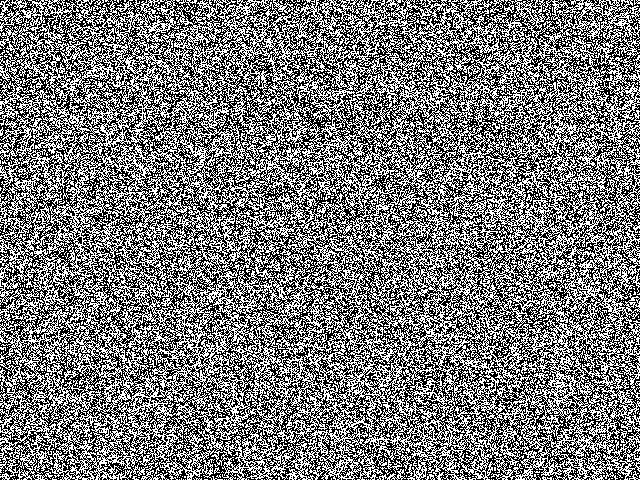
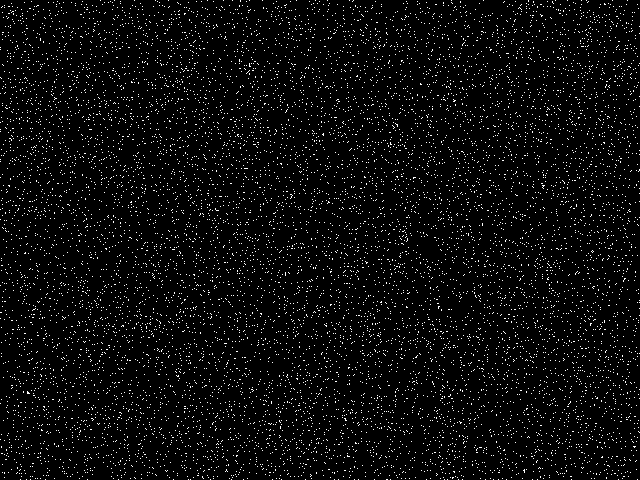
Part b decoder still failing but noise generator is working.

diff --git a/src/part_c/noise_generator.cpp b/src/part_c/noise_generator.cpp
@@ -1,0 +1,123 @@
+//
+// Created by Hasan on 18/05/20.
+//
+
+#ifndef IP_ASSIGNMENT_PARTC_NOISE_GENERATOR_CPP
+#define IP_ASSIGNMENT_PARTC_NOISE_GENERATOR_CPP
+
+#include <iostream>
+#include <opencv2/opencv.hpp>
+#include <algorithm>
+#include <random>
+
+auto hash(const char* password) -> unsigned long;
+auto combine_noise_and_carrier(cv::Mat carrier, const char* password) -> cv::Mat;
+
+auto c_main(int argc, char *argv[]) -> int {
+
+    // Process command line inputs and handle errors
+    if (argc < 4) {
+        std::cerr <<
+                  "Not enough arguments into the program.\nThe usage is program.exe <carrier_dir> <message_dir> <encoded_des>"
+                  << std::endl;
+
+        return -1;
+    }
+
+    auto carrier_name = argv[2];
+    auto output_name = argv[3];
+
+    auto image_write_result = false;
+
+    std::cout << "Processing encoder..." << std::endl;
+
+    cv::Mat_<uchar> carrier = cv::imread(carrier_name, cv::IMREAD_GRAYSCALE);
+//    cv::Mat_<uchar> message = cv::imread(message_name, cv::IMREAD_GRAYSCALE);
+
+    if (carrier.empty()) {
+        std::cerr <<
+                  "ERROR: Either carrier image nor message image does not exist."
+                  << std::endl;
+        return -1;
+    }
+
+    std::cout << "SUCCESS: Images loaded successfully" << std::endl;
+
+    // Check if the images are the same size
+
+//    if (carrier.size() != message.size()) {
+//        std::cerr <<
+//                  "ERROR: The carrier and the message are not the same size."
+//                  << std::endl;
+//        return -1;
+//    }
+
+    std::cout << "SUCCESS: Images compatible." << std::endl;
+
+    // Setup complete
+
+    auto output = combine_noise_and_carrier(carrier, "password");
+
+
+    try {
+        image_write_result = cv::imwrite(output_name, output);
+    } catch (const cv::Exception &cv_ex) {
+        std::cerr << "ERROR: Encoded image write failed.\n" << cv_ex.what() << std::endl;
+    }
+
+    if (image_write_result) {
+        std::cout << "SUCCESS: Encoded image written successfully." << std::endl;
+    } else {
+        std::cerr << "ERROR: Encoded image write failed." << std::endl;
+    }
+
+    return image_write_result ? 0 : 1;
+}
+
+/**
+ * TODO check for overflow
+ * @param carrier
+ * @param password
+ * @return
+ */
+auto combine_noise_and_carrier(cv::Mat carrier, const char* password) -> cv::Mat {
+
+    auto output = carrier.clone();
+
+    // TODO prompt for password
+//    auto password = "password";
+    auto random_seed = (unsigned int) hash(password);
+
+    // A vector the same size as the message
+    std::vector<uchar> indices(carrier.cols * carrier.rows);
+
+    for (int i = 0; i < carrier.rows; i++) {
+        for (int j = 0; j < carrier.cols; j++) {
+            indices.push_back(carrier.at<uchar>(i, j));
+        }
+    }
+
+    // convert the message to a vector for shuffling
+
+    std::mt19937 gen;
+    gen.seed(random_seed);
+
+    // Shuffles the message
+    std::shuffle(indices.begin(), indices.end(), gen);
+
+    int index = 0;
+
+    // Convert back to matrix
+    for (int i = 0; i < carrier.rows; i++) {
+        for (int j = 0; j < carrier.cols; j++) {
+            carrier.at<uchar>(i, j) = indices[index];
+            index++;
+        }
+    }
+
+    output += carrier;
+
+    return output;
+}
+
+#endif //IP_ASSIGNMENT_PARTB_ENCODER_CPP

diff --git a/src/part_b/decoder.cpp b/src/part_b/decoder.cpp
@@ -118,28 +118,55 @@ auto b_decoder_main(int argc, char *argv[]) -> int {
 //    }
 
     auto decoded = carrier.clone();
-    auto carrier_pixel = *(carrier.begin());
-    auto encoded_pixel = *(encoded.begin());
+//    auto carrier_pixel = *(carrier.begin());
+//    auto encoded_pixel = *(encoded.begin());
 
     int index = 0;
     for (auto& pixel: decoded) {
 
         // value at location
 //        auto& new_encoded_pixel = *(encoded.begin() + indices[index]);
-        carrier_pixel = *(carrier.begin() + indices[index]);
-        encoded_pixel = *(encoded.begin() + indices[index]);
 
 
-        if ((encoded_pixel - carrier_pixel) == 0) {
-            pixel += 0;
+        auto index_in_carrier = carrier.begin() + indices[index];
+        auto index_in_encoded = encoded.begin() + indices[index];
+
+        auto carrier_pixel = *index_in_carrier;
+        auto encoded_pixel = *index_in_encoded;
+
+//        std::cout << carrier_pixel << std::endl;
+//        std::cout << encoded_pixel << std::endl;
+
+        if ((encoded_pixel - carrier_pixel) == 1) {
+            std::cout << "Here" << std::endl;
+            pixel = 0;
         } else {
-            pixel += 1;
+            pixel = 255;
         }
 
         index++;
     }
 
-    decoded *= 255;
+//    auto encoded = carrier.clone();
+//
+//    int index = 0;
+//    for (auto& pixel: message) {
+//
+//        // value at location
+//        auto index_in_encoded = (encoded.begin() + indices[index]);
+//        auto encoded_pixel_ptr = *index_in_encoded;
+//
+//        if (encoded_pixel_ptr != 255) {
+//            if (pixel == 0) {
+//                encoded_pixel_ptr += 1;
+//            } else {
+//                encoded_pixel_ptr += 0;
+//            }
+//        }
+//        index++;
+//    }
+
+//    decoded *= 255;
 //    auto decoded = a_decode(carrier, encoded);
 
     // Processing complete.

diff --git a/src/main.cpp b/src/main.cpp
@@ -14,6 +14,8 @@ auto a_decoder_main(int argc, char* argv[]) -> int;
 
 auto b_encoder_main(int argc, char* argv[]) -> int;
 auto b_decoder_main(int argc, char* argv[]) -> int;
+
+auto c_main(int argc, char *argv[]) -> int;
 //
 ///**
 // * TODO Function should include creating directories if it does not exist.
@@ -27,9 +29,19 @@ auto main(int argc, char* argv[]) -> int {
 
     std::string encode_flag = "--encode";
     std::string decode_flag = "--decode";
+    std::string gen_noise_flag = "--noise";
 
     // TODO print usage
-    if (argc < 5) {
+    if (argc == 4) {
+        if (gen_noise_flag.compare(argv[1]) == 0) {
+            return c_main(argc, argv);
+        } else {
+            std::cerr <<
+                      "Not enough arguments into the program.\nThe usage is program.exe <carrier_dir> <message_dir> <encoded_des>"
+                      << std::endl;
+            return -1;
+        }
+    } else if (argc < 5) {
         std::cerr <<
                   "Not enough arguments into the program.\nThe usage is program.exe <carrier_dir> <message_dir> <encoded_des>"
                   << std::endl;

diff --git a/src/part_b/encoder.cpp b/src/part_b/encoder.cpp
@@ -25,7 +25,7 @@
 auto debug_cmd_line_args(const char *carrier, const char *message, const char *encoded) -> void;
 auto debug_image(const char* image_name, const cv::Mat& image) -> void;
 auto a_encode(cv::Mat carrier, cv::Mat message) -> cv::Mat;
-auto hash(const char* passsword) -> unsigned long;
+auto hash(const char* password) -> unsigned long;
 
 /**
 * Part A encoding: `program.exe <carrier_dir> <message_dir> <encoded_des>`
@@ -127,13 +127,14 @@ auto b_encoder_main(int argc, char *argv[]) -> int {
     for (auto& pixel: message) {
 
         // value at location
-        auto& new_encoded_pixel = *(encoded.begin() + indices[index]);
+        auto index_in_encoded = (encoded.begin() + indices[index]);
+        auto& encoded_pixel_ptr = *index_in_encoded;
 
-        if (new_encoded_pixel != 255) {
+        if (encoded_pixel_ptr != 255) {
             if (pixel == 0) {
-                new_encoded_pixel += 0;
+                encoded_pixel_ptr += 1;
             } else {
-                new_encoded_pixel += 1;
+                encoded_pixel_ptr += 0;
             }
         }
         index++;

diff --git a/src/part_a/encoder.cpp b/src/part_a/encoder.cpp
@@ -113,7 +113,7 @@ auto a_encoder_main(int argc, char *argv[]) -> int {
 //}
 
 auto debug_cmd_line_args(const char *carrier, const char *message, const char *encoded) -> void {
-    std::cout << "Carrier: " << carrier << "\nMessage: " << message << "\nEncoded: " << encoded << std::endl;
+    std::cout << "Carrier: " << carrier << "\nMessage: " << message << "\nOutput: " << encoded << std::endl;
 }
 
 auto debug_image(const char *image_name, const cv::Mat &image) -> void {
